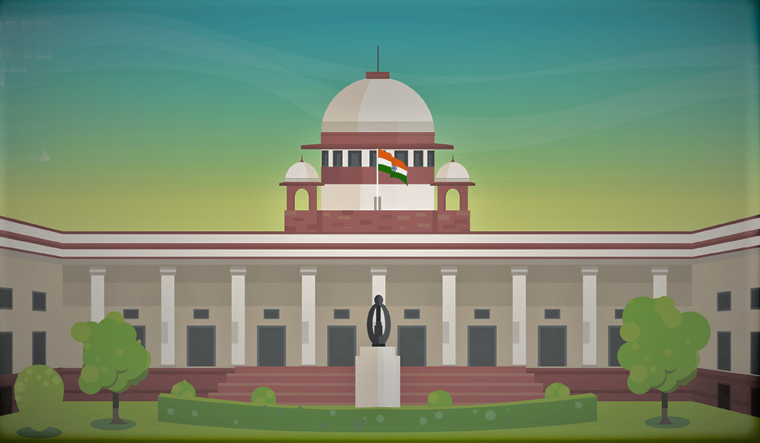
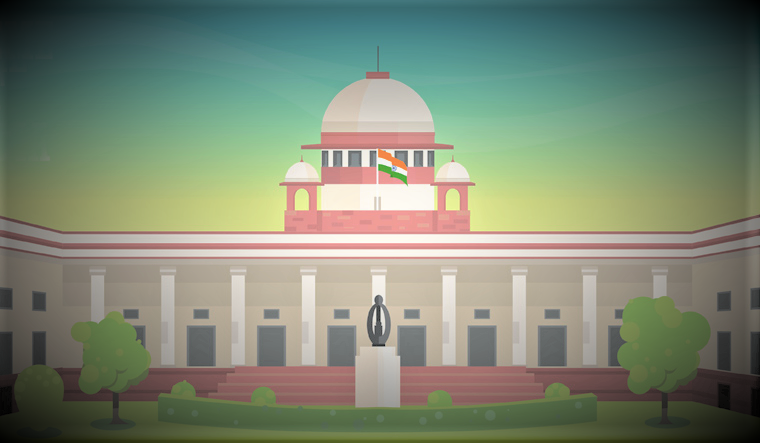
Changes in third section of home page

diff --git a/assets/css/home.css b/assets/css/home.css
@@ -202,7 +202,7 @@ body {
 }
 
 #third-img {
-    background-image: url("../image/1.png");
+    background-image: url("../image/about.png");
     background-size: cover;
     background-position: center;
     width: 0px;
@@ -210,6 +210,7 @@ body {
 
 #third-intro {
     font-family: 'Cinzel', serif;
+    background: rgba(0, 0, 0, 0.5);
     color: #E5C175;
     margin: 80px;
     border: 1px solid #E5C175;
